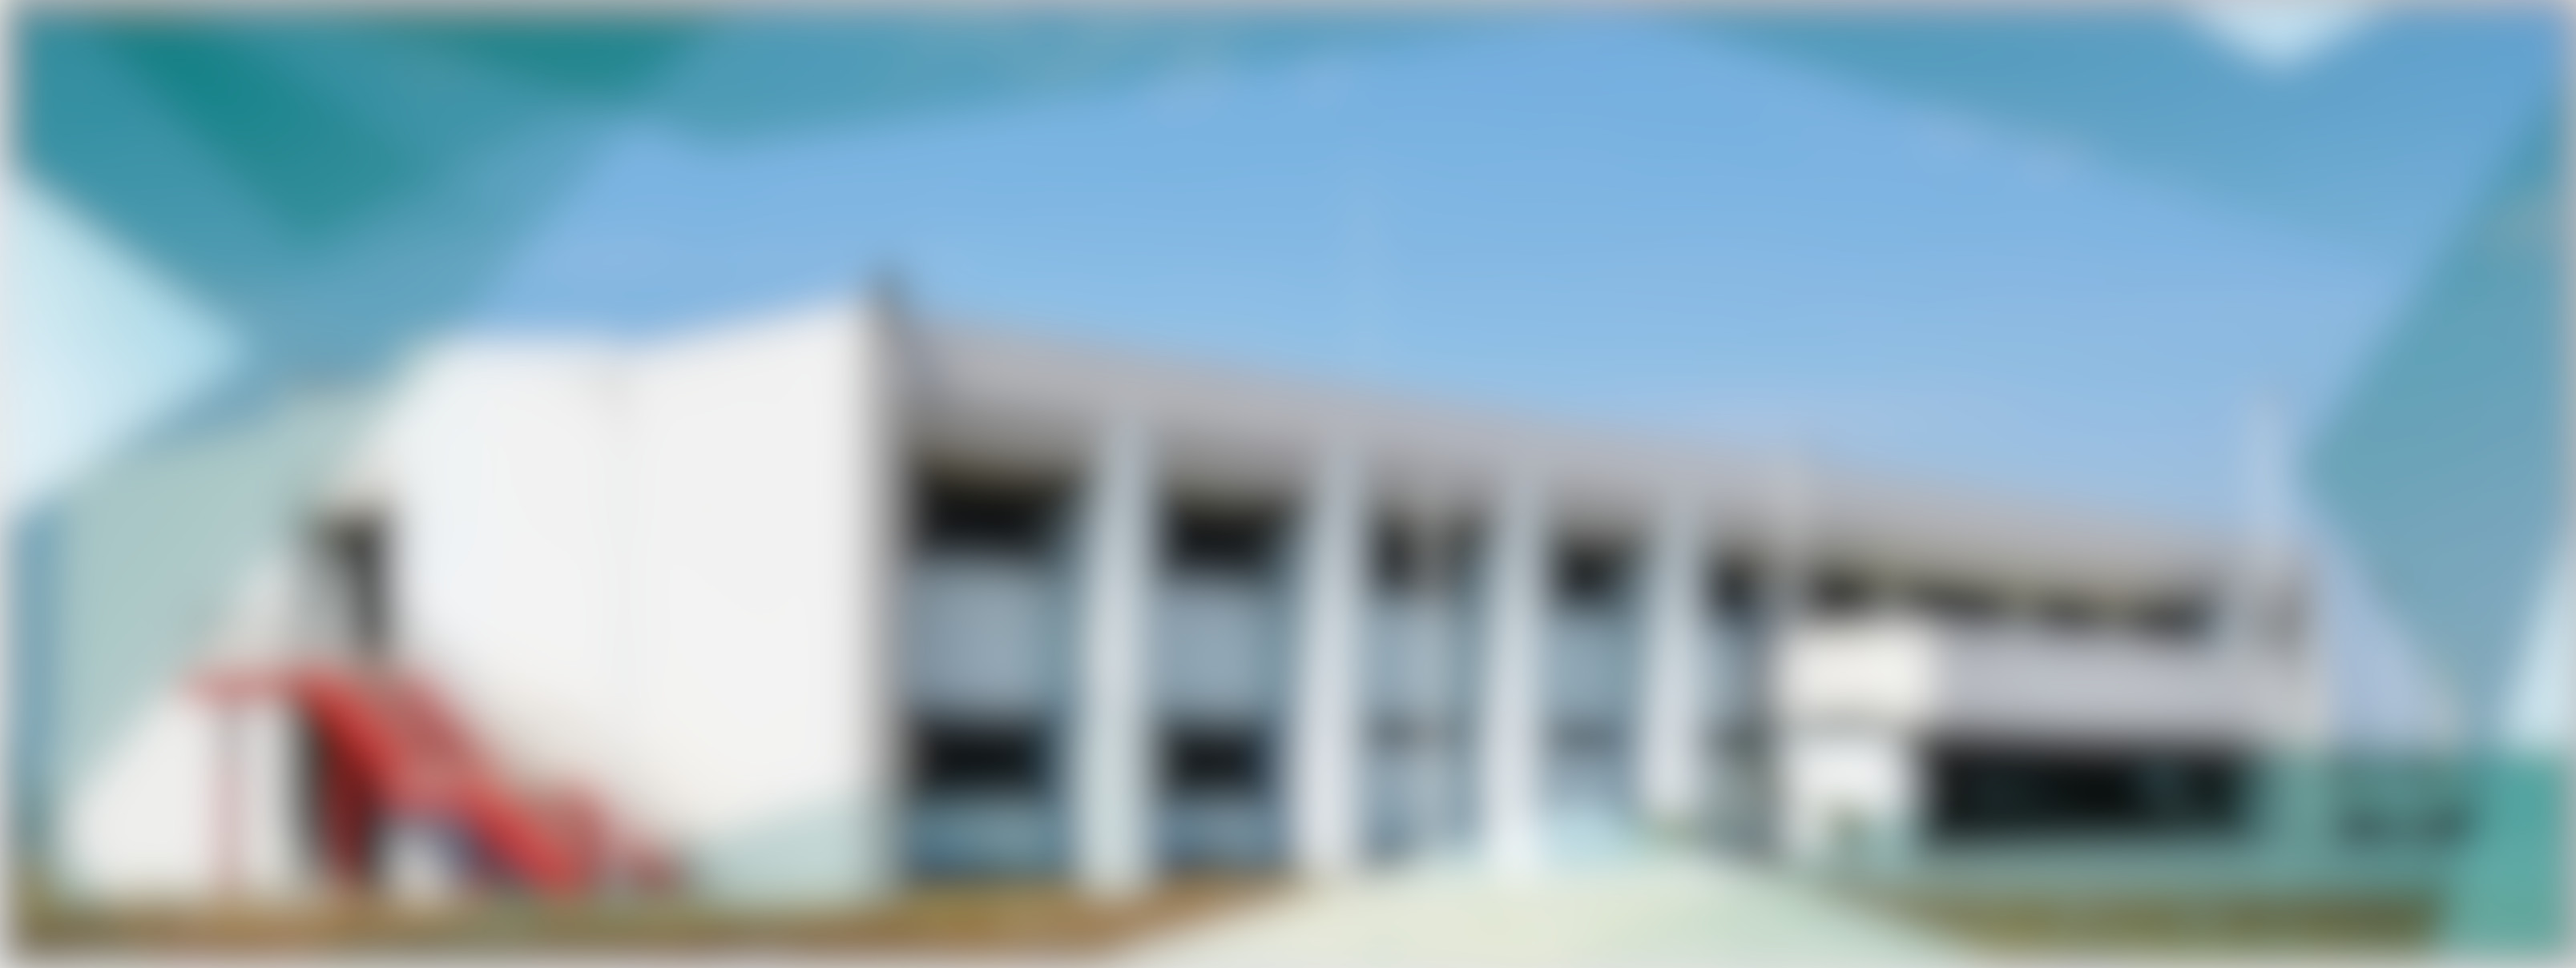
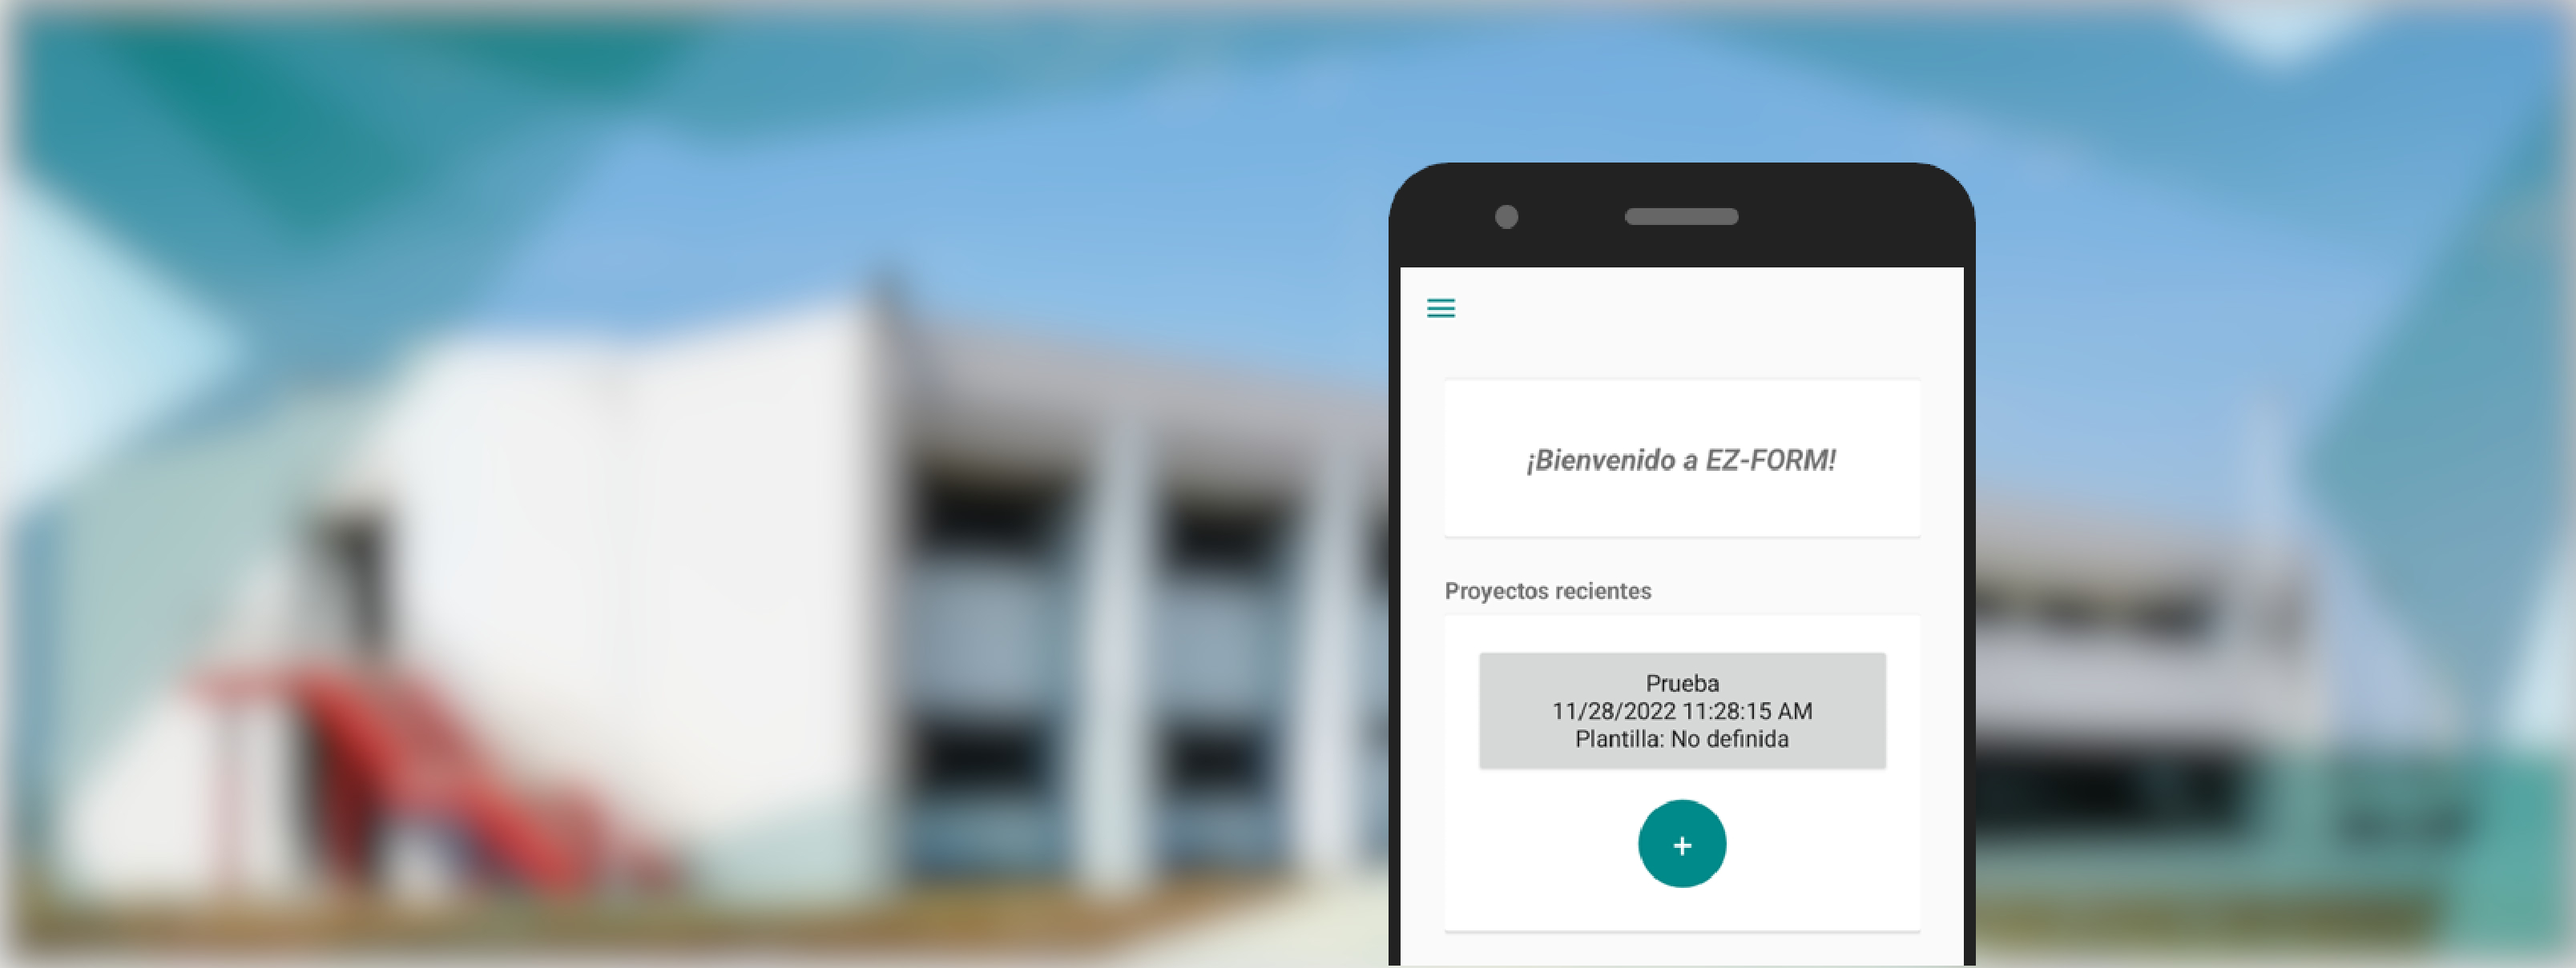
actualizamos la página

Changed region(s): [[0.5288, 0.153, 0.7776, 1.0]]

diff --git a/login.html b/login.html
@@ -15,20 +15,22 @@
         <h1> Inicio de sesion </h1>
         <form method="post">
             <div class ="username">
-                <input type="password" required>
+                <input type="email" id="correo" required>
                 <label>Correo institucional</label>
             </div>
             <div class = "username">
                 <input type="password" required>
                 <label>Contraseña</label>
             </div>
-            <input type="submit" value="Iniciar">
+            <input type="submit" value="Iniciar" id="botoncito">
             <div class = "pagina_principal">
                 Ir a <a href="pagina.html"> Pagina Principal</a>
             </div>
         </form>   
     </div>
 
+
+<script src="./assets/js/login.js"></script>
 <script src="https://cdn.jsdelivr.net/npm/bootstrap@5.1.3/dist/js/bootstrap.bundle.min.js" integrity="sha384-ka7Sk0Gln4gmtz2MlQnikT1wXgYsOg+OMhuP+IlRH9sENBO0LRn5q+8nbTov4+1p" crossorigin="anonymous"></script>
 <script src="https://cdn.jsdelivr.net/npm/@popperjs/core@2.10.2/dist/umd/popper.min.js" integrity="sha384-7+zCNj/IqJ95wo16oMtfsKbZ9ccEh31eOz1HGyDuCQ6wgnyJNSYdrPa03rtR1zdB" crossorigin="anonymous"></script>
 <script src="https://cdn.jsdelivr.net/npm/bootstrap@5.1.3/dist/js/bootstrap.min.js" integrity="sha384-QJHtvGhmr9XOIpI6YVutG+2QOK9T+ZnN4kzFN1RtK3zEFEIsxhlmWl5/YESvpZ13" crossorigin="anonymous"></script>

diff --git a/assets/css/main.css b/assets/css/main.css
@@ -2269,10 +2269,19 @@ input, select, textarea {
 		background-repeat: repeat, no-repeat;
 	}
 
+/* Mobile */
+
+	#mobile {
+		background: url("images/overlay.png"), url("../../images/img2-1.jpg");
+		background-size: 256px 256px, cover;
+		background-attachment: fixed, fixed;
+		background-position: top left, center center;
+	}
+
 /* One */
 
 	#one {
-		background: url("images/overlay.png"), url("../../images/img2-1.jpg");
+		background: url("images/photo1.jpg"), url("../../images/photo1.jpg");
 		background-size: 256px 256px, cover;
 		background-attachment: fixed, fixed;
 		background-position: top left, center center;
@@ -2281,7 +2290,7 @@ input, select, textarea {
 /* Two */
 
 	#two {
-		background: url("images/overlay.png"), url("../../images/img3.jpg");
+		background: url("images/overlay.png"), url("../../images/photo4.jpg");
 		background-size: 256px 256px, cover;
 		background-attachment: fixed, fixed;
 		background-position: top left, center center;

diff --git a/index.html b/index.html
@@ -32,9 +32,24 @@
 						</a>
 					</header>
 					<footer>
-						<a href="#one" class="button style2 down">Ver más</a>
+						<a href="#mobile" class="button style2 down">Ver más</a>
 					</footer>
 				</div>
+			</section>
+			<section id="mobile" class="main style2 left dark fullscreen">
+				<div class="content box style2">
+					<header>
+						<h2>¡Descarga nuestra APP!</h2>
+					</header>
+					<p>
+						¡EZ-FORM ahora está disponible en móviles!
+						Sigue de cerca el desarrollo de nuestra aplicación móvil.
+					</p>
+					<a href="./download/ezform.Android_base.apk" download="ezform_v0.2b.apk">
+						Descargar Aplicación Beta<i class="fa fa-download"></i>
+					</a>
+				</div>
+				<a href="#one" class="button style2 down anchored">Next</a>
 			</section>
 			<section id="one" class="main style2 right dark fullscreen">
 				<div class="content box style2">

diff --git a/assets/js/login.js b/assets/js/login.js
@@ -1,0 +1,10 @@
+const sexo = /^[a-zA-Z0-9_.+-]+@[a-zA-Z0-9-]+\.[a-zA-Z0-9-.]+$/
+const btn = document.getElementById("botoncito")
+btn.addEventListener('click',()=>{
+    if(sexo.test(document.getElementById("correo").value)){
+        
+    }
+    else{
+        alert("no puta")
+    }
+})
